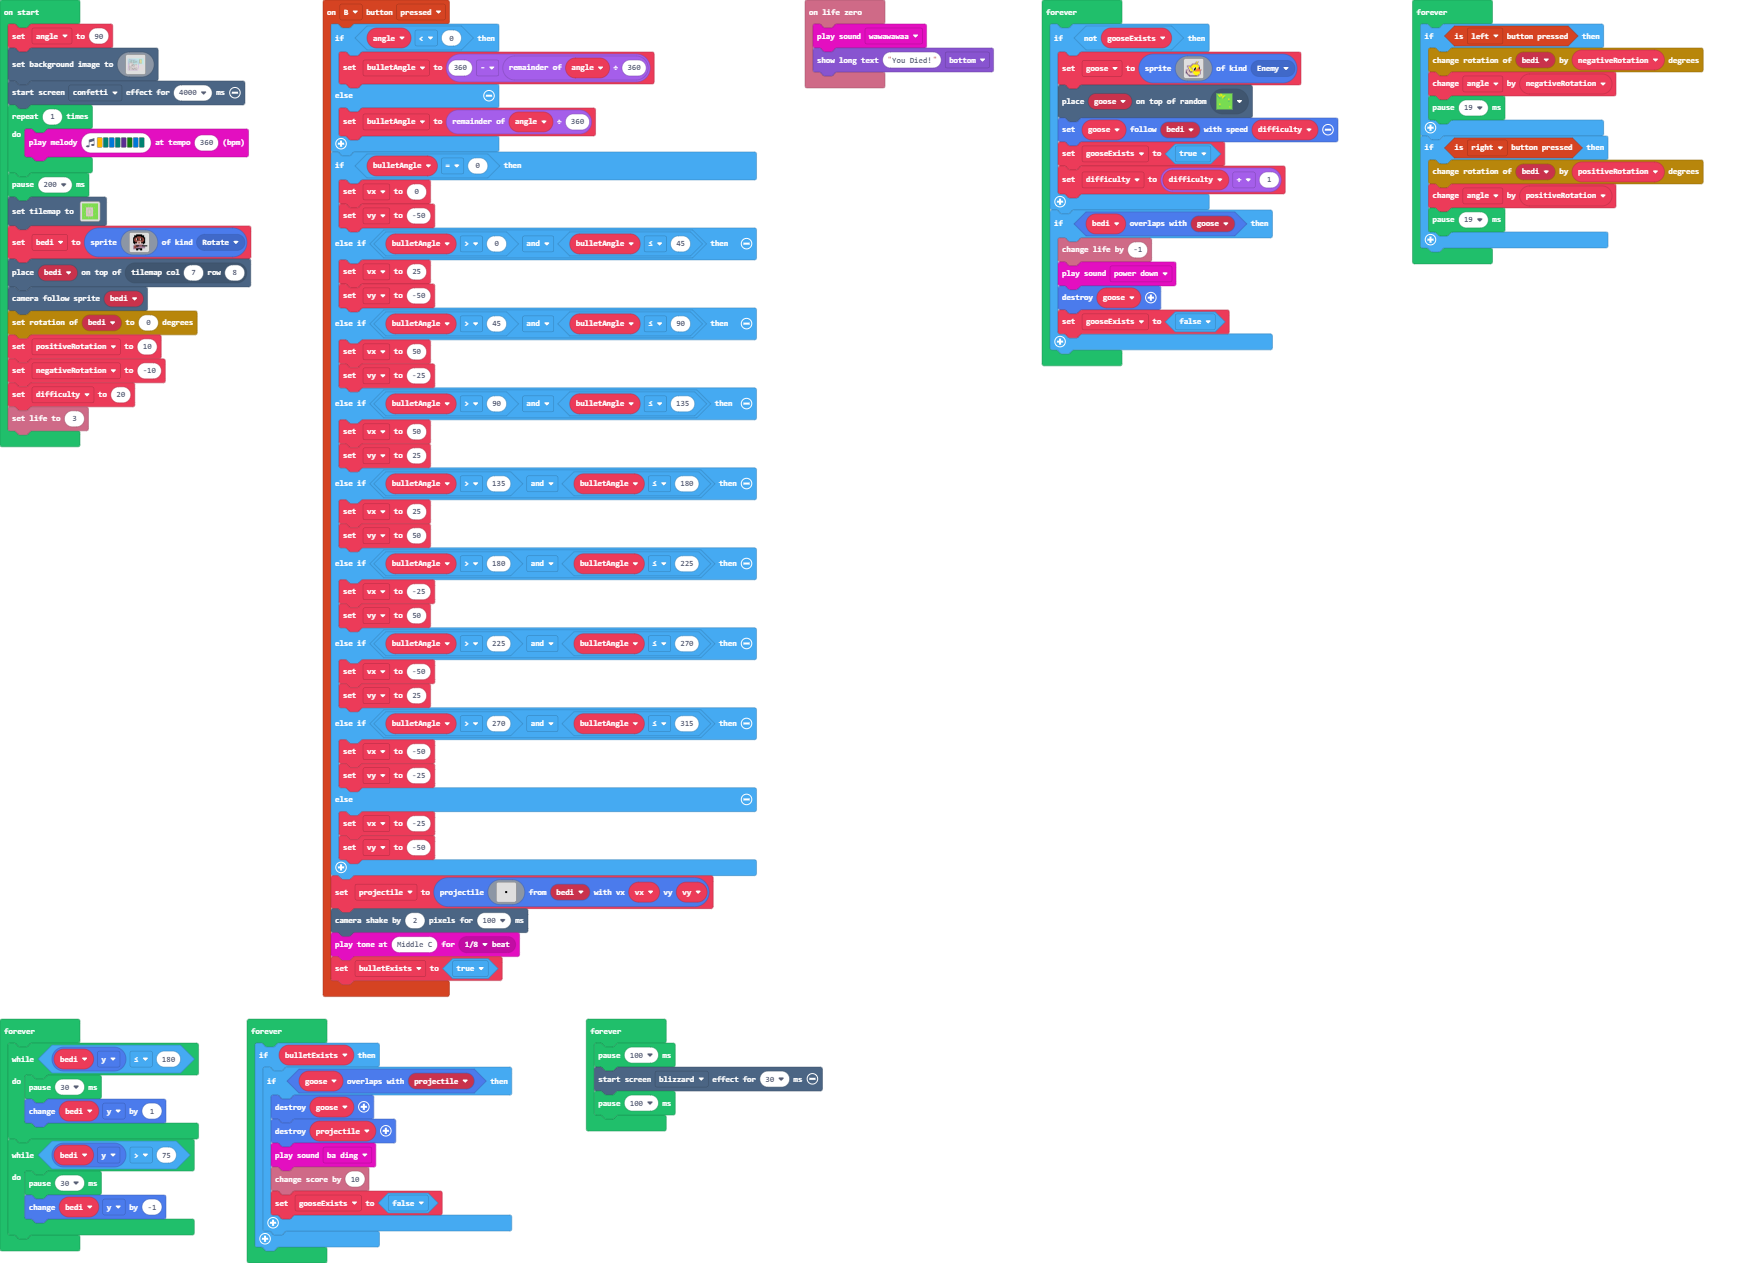
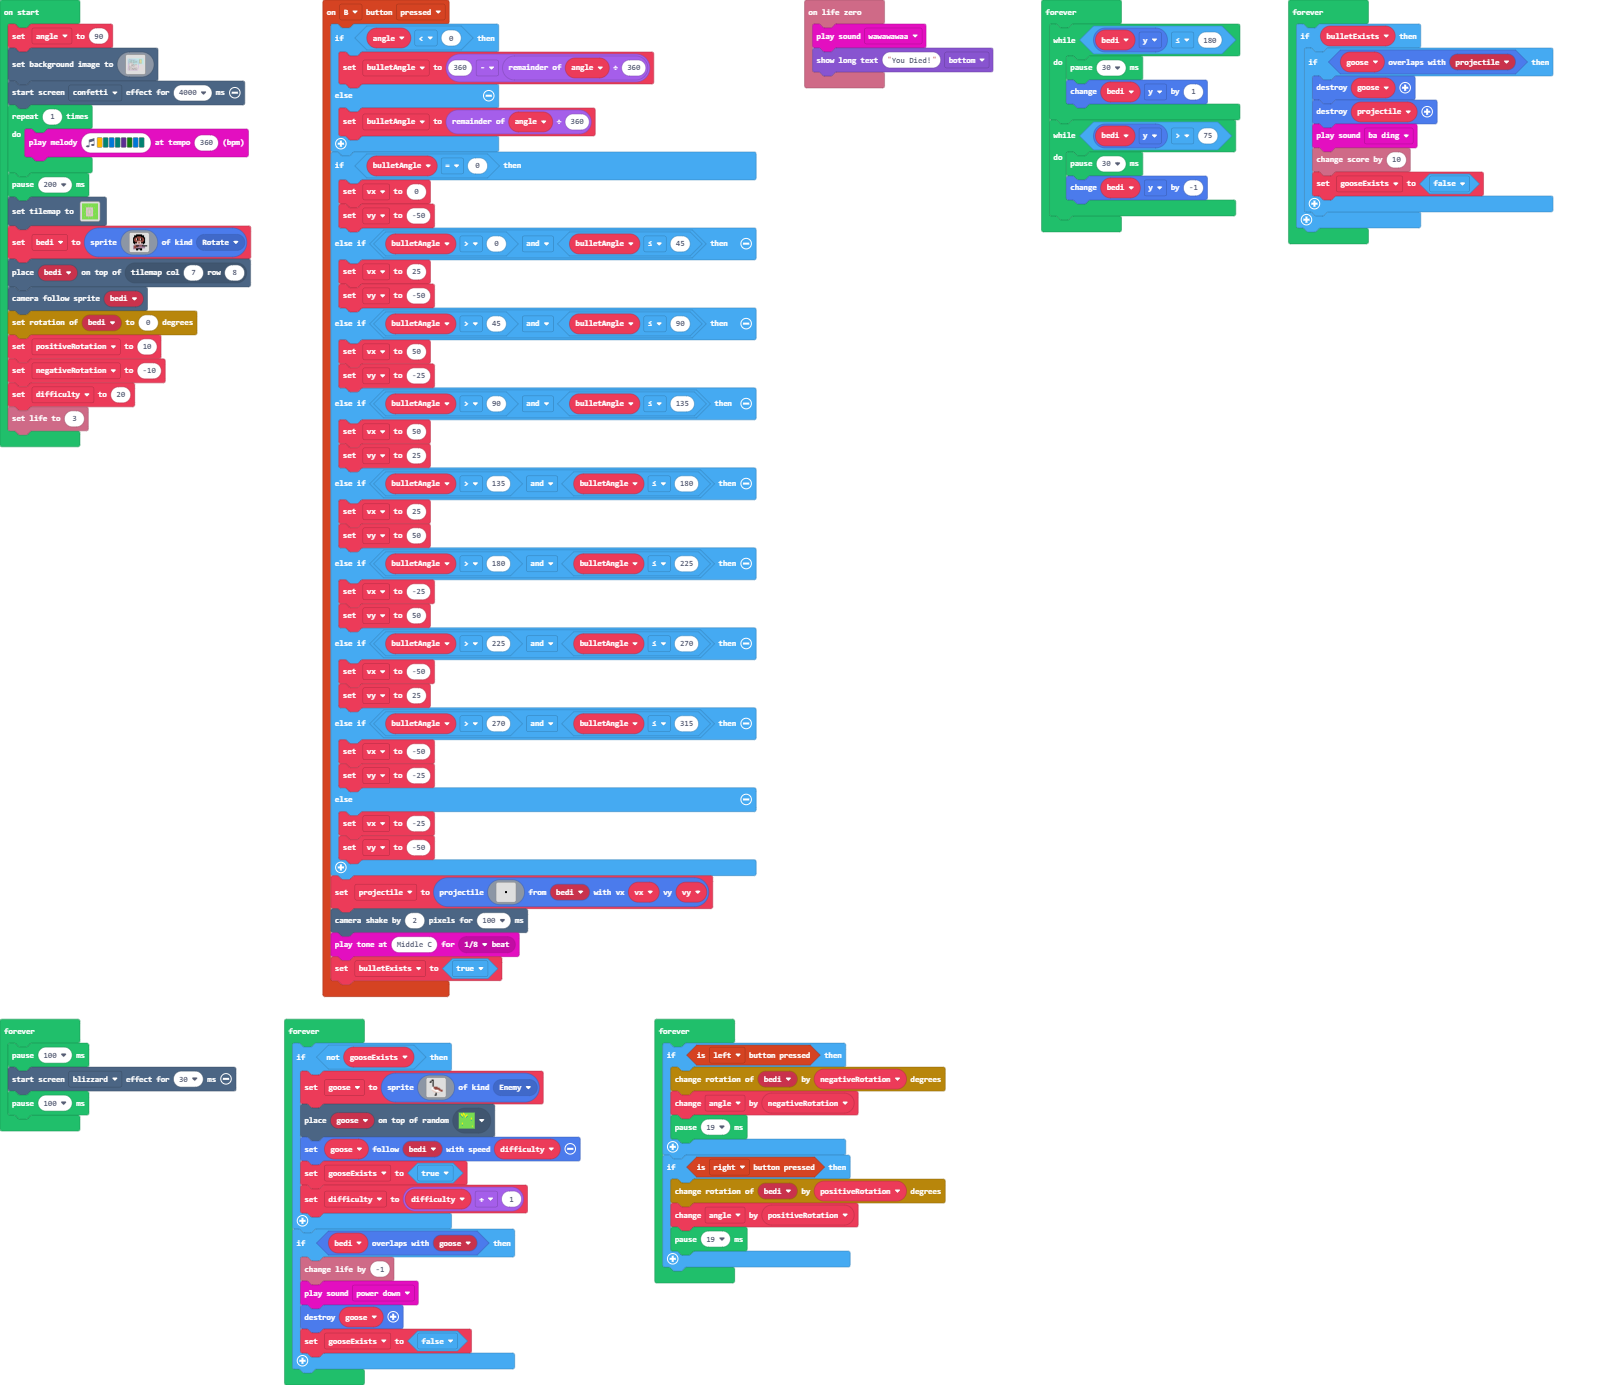
Update main.blocks, main.ts, main.py

diff --git a/main.ts b/main.ts
@@ -61,8 +61,8 @@ info.onLifeZero(function () {
     music.wawawawaa.play()
     game.showLongText("You Died!", DialogLayout.Bottom)
 })
-let goose: Sprite = null
 let gooseExists = false
+let goose: Sprite = null
 let bulletExists = false
 let projectile: Sprite = null
 let vy = 0
@@ -225,50 +225,6 @@ let negativeRotation = -10
 let difficulty = 20
 info.setLife(3)
 forever(function () {
-    if (!(gooseExists)) {
-        goose = sprites.create(img`
-            . . . . . . . . . . . . . . . . 
-            . . . . . . . . . . b 5 b . . . 
-            . . . . . . . . . b 5 b . . . . 
-            . . . . . . b b b b b b . . . . 
-            . . . . . b b 5 5 5 5 5 b . . . 
-            . b b b b b 5 5 5 5 5 5 5 b . . 
-            . b d 5 b 5 5 5 5 5 5 5 5 b . . 
-            . . b 5 5 b 5 d 1 f 5 d 4 f . . 
-            . . b d 5 5 b 1 f f 5 4 4 c . . 
-            b b d b 5 5 5 d f b 4 4 4 4 4 b 
-            b d d c d 5 5 b 5 4 4 4 4 4 b . 
-            c d d d c c b 5 5 5 5 5 5 5 b . 
-            c b d d d d d 5 5 5 5 5 5 5 b . 
-            . c d d d d d d 5 5 5 5 5 d b . 
-            . . c b d d d d d 5 5 5 b b . . 
-            . . . c c c c c c c c b b . . . 
-            `, SpriteKind.Enemy)
-        tiles.placeOnRandomTile(goose, sprites.castle.tileGrass1)
-        goose.follow(bedi, difficulty)
-        gooseExists = true
-        difficulty = difficulty + 1
-    }
-    if (bedi.overlapsWith(goose)) {
-        info.changeLifeBy(-1)
-        music.powerDown.play()
-        goose.destroy()
-        gooseExists = false
-    }
-})
-forever(function () {
-    if (controller.left.isPressed()) {
-        transformSprites.changeRotation(bedi, negativeRotation)
-        angle += negativeRotation
-        pause(19)
-    }
-    if (controller.right.isPressed()) {
-        transformSprites.changeRotation(bedi, positiveRotation)
-        angle += positiveRotation
-        pause(19)
-    }
-})
-forever(function () {
     while (bedi.y <= 180) {
         pause(30)
         bedi.y += 1
@@ -293,4 +249,48 @@ forever(function () {
     pause(100)
     effects.blizzard.startScreenEffect(30)
     pause(100)
+})
+forever(function () {
+    if (!(gooseExists)) {
+        goose = sprites.create(img`
+            . . f f . . . . . . . . . 
+            . f 1 f . . . . . . . . . 
+            f f 1 f . . . . . . . . . 
+            . . . f . . . . . . . . . 
+            . . . f . . . . . . . . . 
+            . . . f . . . . . . . . . 
+            . . . f . . . . . . . . . 
+            . . . 1 e e e e . . . . . 
+            . . 1 1 e e e e e e . . . 
+            . . 1 1 1 e e e e e e . . 
+            . . d d 1 1 1 1 1 e e e e 
+            . . . d d d 1 1 1 1 d e e 
+            . . . . d d d d d d . . . 
+            . . . . . . f . . . . . . 
+            . . . . . . f . . . . . . 
+            . . . . . f f . . . . . . 
+            `, SpriteKind.Enemy)
+        tiles.placeOnRandomTile(goose, sprites.castle.tileGrass1)
+        goose.follow(bedi, difficulty)
+        gooseExists = true
+        difficulty = difficulty + 1
+    }
+    if (bedi.overlapsWith(goose)) {
+        info.changeLifeBy(-1)
+        music.powerDown.play()
+        goose.destroy()
+        gooseExists = false
+    }
+})
+forever(function () {
+    if (controller.left.isPressed()) {
+        transformSprites.changeRotation(bedi, negativeRotation)
+        angle += negativeRotation
+        pause(19)
+    }
+    if (controller.right.isPressed()) {
+        transformSprites.changeRotation(bedi, positiveRotation)
+        angle += positiveRotation
+        pause(19)
+    }
 })

diff --git a/main.py b/main.py
@@ -3,7 +3,38 @@ class SpriteKind:
     Rotate = SpriteKind.create()
 
 def on_b_pressed():
-    global projectile
+    global bulletAngle, vx, vy, projectile, bulletExists
+    if angle < 0:
+        bulletAngle = 360 - angle % 360
+    else:
+        bulletAngle = angle % 360
+    if bulletAngle == 0:
+        vx = 0
+        vy = -50
+    elif bulletAngle > 0 and bulletAngle <= 45:
+        vx = 25
+        vy = -50
+    elif bulletAngle > 45 and bulletAngle <= 90:
+        vx = 50
+        vy = -25
+    elif bulletAngle > 90 and bulletAngle <= 135:
+        vx = 50
+        vy = 25
+    elif bulletAngle > 135 and bulletAngle <= 180:
+        vx = 25
+        vy = 50
+    elif bulletAngle > 180 and bulletAngle <= 225:
+        vx = -25
+        vy = 50
+    elif bulletAngle > 225 and bulletAngle <= 270:
+        vx = -50
+        vy = 25
+    elif bulletAngle > 270 and bulletAngle <= 315:
+        vx = -50
+        vy = -25
+    else:
+        vx = -25
+        vy = -50
     projectile = sprites.create_projectile_from_sprite(img("""
             . . . . . . . . . . . . . . . . 
                     . . . . . . . . . . . . . . . . 
@@ -23,29 +54,28 @@ def on_b_pressed():
                     . . . . . . . . . . . . . . . .
         """),
         bedi,
-        70 * Math.sin(angle - 90),
-        70 * Math.cos(angle - 90))
+        vx,
+        vy)
     scene.camera_shake(2, 100)
     music.play_tone(262, music.beat(BeatFraction.EIGHTH))
-    if goose.overlaps_with(projectile):
-        goose.destroy()
-        projectile.destroy()
-        music.ba_ding.play()
+    bulletExists = True
 controller.B.on_event(ControllerButtonEvent.PRESSED, on_b_pressed)
 
 def on_life_zero():
+    music.wawawawaa.play()
     game.show_long_text("You Died!", DialogLayout.BOTTOM)
 info.on_life_zero(on_life_zero)
 
-def on_on_destroyed(sprite):
-    info.change_score_by(10)
-sprites.on_destroyed(SpriteKind.enemy, on_on_destroyed)
-
-projectile: Sprite = None
 goose: Sprite = None
+gooseExists = False
+bulletExists = False
+projectile: Sprite = None
+vy = 0
+vx = 0
+bulletAngle = 0
 bedi: Sprite = None
 angle = 0
-angle = 0
+angle = 90
 scene.set_background_image(img("""
     9999999999999999999999999999999999999999999999999999999999999999999999999999999999999999999999999999999999999999999999999999999999999999999999999999999999999999
         9999999999999999999999999999999999999999999999999999999999999999999999999999999999999999999999999999999999999999999999999999999999999999999999999999999999999999
@@ -169,7 +199,7 @@ scene.set_background_image(img("""
         dddddddddddddddddddddddddddddddddddddddddddddddddddddddddddddddddddddddddddddddddddddddddddddddddddddddddddddddddddddddddddddddddddddddddddddddddddddddddddddddd
 """))
 effects.confetti.start_screen_effect(4000)
-for index in range(4):
+for index in range(1):
     music.play_melody("A F E F D G E F ", 360)
 pause(200)
 tiles.set_tilemap(tilemap("""
@@ -196,34 +226,64 @@ bedi = sprites.create(img("""
     SpriteKind.Rotate)
 tiles.place_on_tile(bedi, tiles.get_tile_location(7, 8))
 scene.camera_follow_sprite(bedi)
-transformSprites.rotate_sprite(bedi, angle)
+transformSprites.rotate_sprite(bedi, 0)
 positiveRotation = 10
 negativeRotation = -10
+difficulty = 20
 info.set_life(3)
-goose = sprites.create(img("""
-        . . . . . . . . . . . . . . . . 
-            . . . . . . . . . . . . . . . . 
-            . . . . . . . . . . . . . . . . 
-            . . . . . . . . . . . . . . . . 
-            . . . . . . . . . . . . . . . . 
-            . . . . . . . . . . . . . . . . 
-            . . . . . . . . . . . . . . . . 
-            . . . . . . . . . . . . . . . . 
-            . . . . . . . . . . . . . . . . 
-            . . . . . . . . . . . . . . . . 
-            . . . . . . . . . . . . . . . . 
-            . . . . . . . . . . . . . . . . 
-            . . . . . . . . . . . . . . . . 
-            . . . . . . . . . . . . . . . . 
-            . . . . . . . . . . . . . . . . 
-            . . . . . . . . . . . . . . . .
-    """),
-    SpriteKind.enemy)
-goose.follow(bedi)
-if bedi.overlaps_with(goose):
-    info.change_life_by(-1)
 
 def on_forever():
+    global goose, gooseExists, difficulty
+    if not (gooseExists):
+        goose = sprites.create(img("""
+
+ . . f f . . . . . . . . .
+
+ . f 1 f . . . . . . . . .
+
+ f f 1 f . . . . . . . . .
+
+ . . . f . . . . . . . . .
+
+ . . . f . . . . . . . . .
+
+ . . . f . . . . . . . . .
+
+ . . . f . . . . . . . . .
+
+ . . . 1 e e e e . . . . .
+
+ . . 1 1 e e e e e e . . .
+
+ . . 1 1 1 e e e e e e . .
+
+ . . d d 1 1 1 1 1 e e e e
+
+ . . . d d d 1 1 1 1 d e e
+
+ . . . . d d d d d d . . .
+
+ . . . . . . f . . . . . .
+
+ . . . . . . f . . . . . .
+
+ . . . . . f f . . . . . .
+
+ 
+            """),
+            SpriteKind.enemy)
+        tiles.place_on_random_tile(goose, sprites.castle.tile_grass1)
+        goose.follow(bedi, difficulty)
+        gooseExists = True
+        difficulty = difficulty + 1
+    if bedi.overlaps_with(goose):
+        info.change_life_by(-1)
+        music.power_down.play()
+        goose.destroy()
+        gooseExists = False
+forever(on_forever)
+
+def on_forever2():
     global angle
     if controller.left.is_pressed():
         transformSprites.change_rotation(bedi, negativeRotation)
@@ -233,12 +293,6 @@ def on_forever():
         transformSprites.change_rotation(bedi, positiveRotation)
         angle += positiveRotation
         pause(19)
-forever(on_forever)
-
-def on_forever2():
-    pause(100)
-    effects.blizzard.start_screen_effect(30)
-    pause(100)
 forever(on_forever2)
 
 def on_forever3():
@@ -249,3 +303,20 @@ def on_forever3():
         pause(30)
         bedi.y += -1
 forever(on_forever3)
+
+def on_forever4():
+    global gooseExists
+    if bulletExists:
+        if goose.overlaps_with(projectile):
+            goose.destroy()
+            projectile.destroy()
+            music.ba_ding.play()
+            info.change_score_by(10)
+            gooseExists = False
+forever(on_forever4)
+
+def on_forever5():
+    pause(100)
+    effects.blizzard.start_screen_effect(30)
+    pause(100)
+forever(on_forever5)
